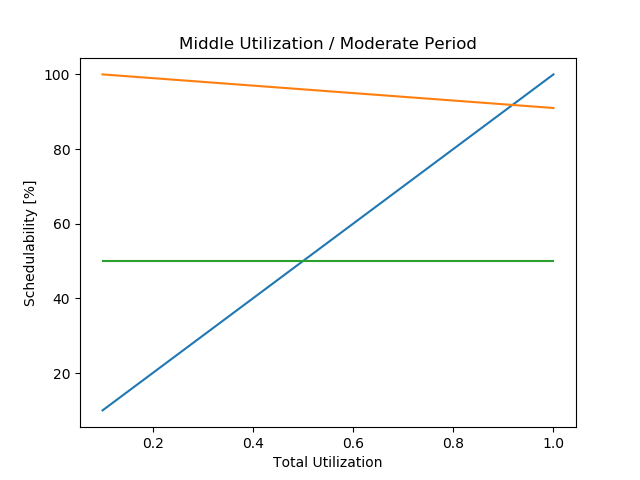
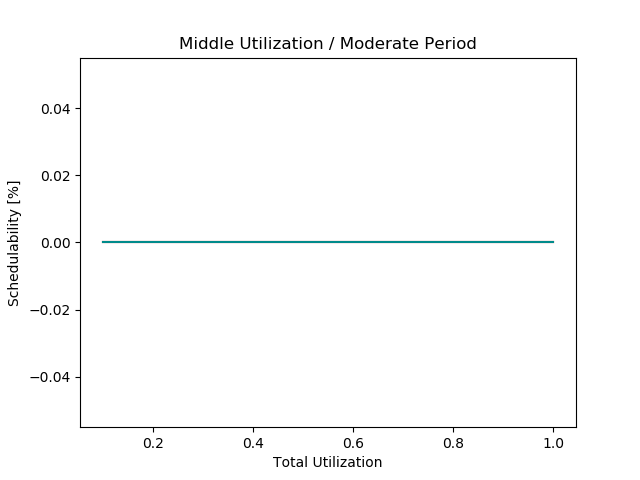
Now the code executes. It's wrong, but it executes

diff --git a/1_Trabalho/tests.py b/1_Trabalho/tests.py
@@ -20,10 +20,10 @@ def liu_lay_test(utilization, period):
     test = 0
     for u in utilization:
         utilization_sum += u
-        n += 1
         if n > 0 and harmonic:
-            if period[n] % period[n+1] != 0 and period[n+1] % period[n] != 0:
+            if period[n] % period[n-1] != 0 and period[n-1] % period[n] != 0:
                 harmonic = False
+        n += 1
 
     if harmonic:
         test = 1
@@ -111,14 +111,27 @@ def plotGraph(case, graphH, graphL, graphR):
 
     x = [0.1, 0.2, 0.3, 0.4, 0.5, 0.6, 0.7, 0.8, 0.9, 1]
     fig = plt.figure()
-    plt.plot(x, graphH)
-    plt.plot(x, graphL)
-    plt.plot(x, graphR)
+    plt.plot(x, graphH, color = "#FF7F50")
+    plt.plot(x, graphL, color = "#DC143C")
+    plt.plot(x, graphR, color = "#008B8B")
 
     plt.title(title)
     plt.xlabel("Total Utilization")
     plt.ylabel("Schedulability [%]")
     plt.savefig(filename)
+
+def random_uniform(min, max):
+    # Light and moderate period
+    if max % min == 0:
+        return ((int(random() * 1000) % (max/min)) + 1) * min
+        # e.g. min = .0001 ; max = .01
+        # max / min = 100
+        # Generates number between [1, 100]
+        # Multiplies by .0001
+
+    # Heavy period
+    else:
+        return (int((random() * 10) + 1) * 0.001) + min
 
 def generateTaskSet(max_utilization, case):
     min_utilization_case = 0.0
@@ -175,15 +188,15 @@ def generateTaskSet(max_utilization, case):
 
     arrayUtilization = []
     arrayPeriod = []
-    x
+    # x
     current_utilization = 0.0
     while current_utilization < max_utilization:
-        arrayPeriod.append(random.uniform(min_period_case,max_period_case))
+        arrayPeriod.append(random_uniform(min_period_case,max_period_case))
         if(max_utilization - current_utilization < max_utilization_case and not(max_utilization - current_utilization > min_utilization_case)):
             arrayUtilization.append(max_utilization - current_utilization)
             current_utilization = max_utilization
         else:
-            holder = random.uniform(min_utilization_case, max_utilization_case)
+            holder = random_uniform(min_utilization_case, max_utilization_case)
             current_utilization += holder
             arrayUtilization.append(holder)
 
@@ -193,10 +206,9 @@ def main():
 
     plt.ion() # Sets plotting functions as non-blocking
 
-    # REMOVE DEFAULT VALUES (use "graphH = []") ---------------------------------
-    graphH = [10, 20, 30, 40, 50, 60, 70, 80, 90, 100] # Stores values of current graphic for Liu&Layland test
-    graphL = [100, 99, 98, 97, 96, 95, 94, 93, 92, 91] # Stores values of current graphic for Hyperbolic test
-    graphR = [50, 50, 50, 50, 50, 50, 50, 50, 50, 50] # Stores values of current graphic for RTA test
+    graphH = [] # Stores values of current graphic for Liu&Layland test
+    graphL = [] # Stores values of current graphic for Hyperbolic test
+    graphR = [] # Stores values of current graphic for RTA test
 
     countH = 0 # Counts how many task sets could be scheduled by Hyperbolic test
     countL = 0 # Counts how many task sets could be scheduled by Liu&Layland test
@@ -215,15 +227,17 @@ def main():
                 countL += liu_lay_test(arrayUtilization, arrayPeriod)
                 countR += rta_test(arrayUtilization, arrayPeriod)
 
-            # UNCOMMENT ----------------------
-            # graphH.append(countH)
-            # graphL.append(countL)
-            # graphR.append(countR)
+            graphH.append(countH)
+            graphL.append(countL)
+            graphR.append(countR)
 
             countH = countL = countR = 0
             max_util += 0.1
         
         plotGraph(case, graphH, graphL, graphR)
+        graphH = []
+        graphL = []
+        graphR = []
 
     # Blocks script while plots are open
     plt.ioff()
